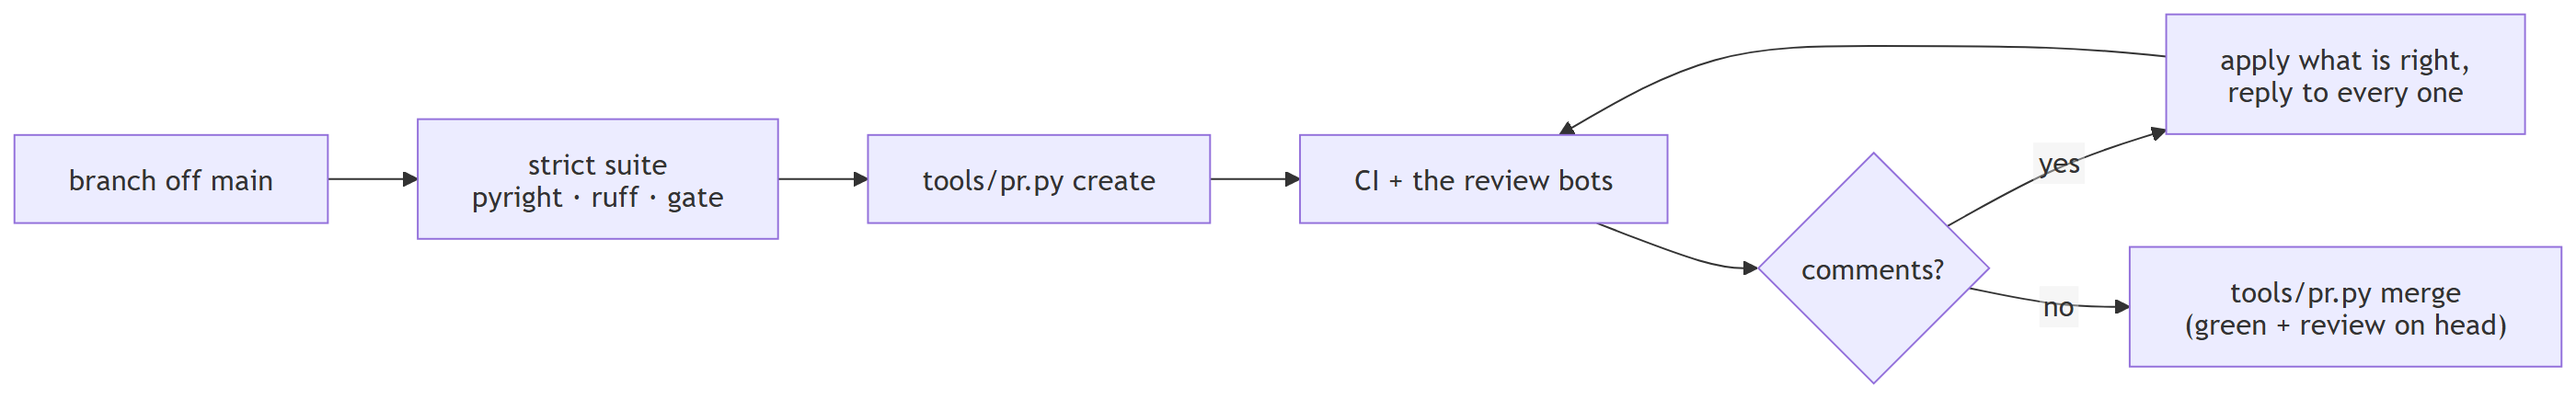
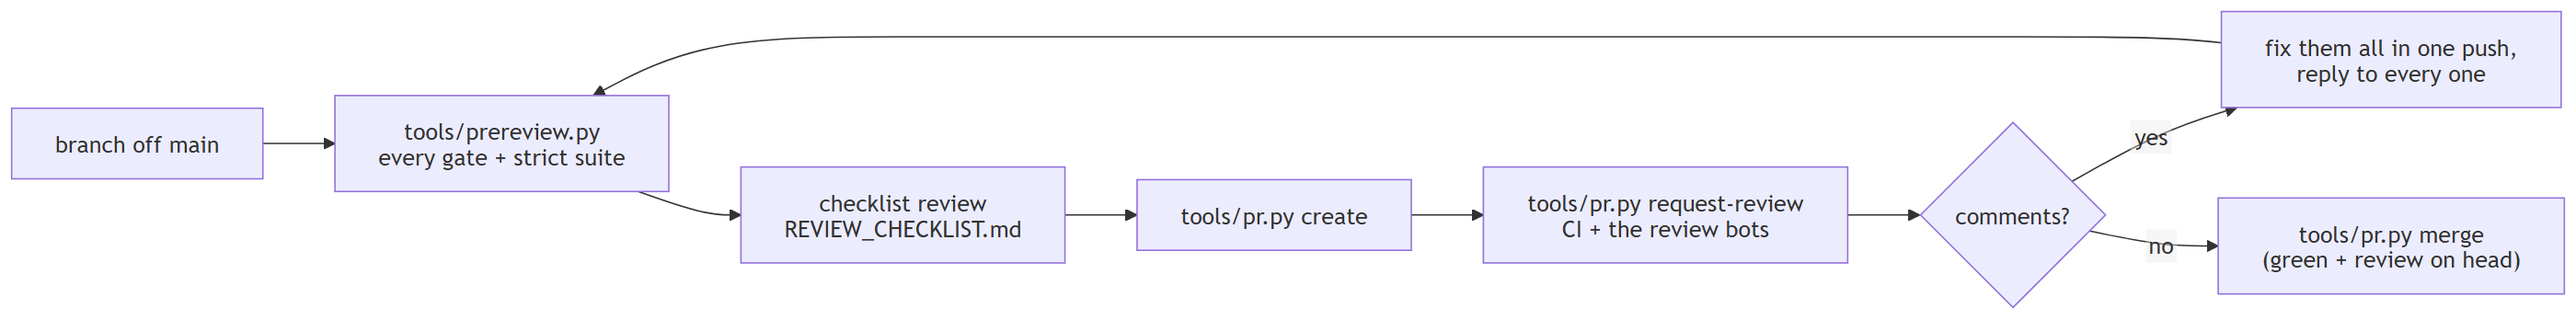
A local review gate and checklist before the automated review

diff --git a/tools/prereview.py b/tools/prereview.py
@@ -1,0 +1,197 @@
+"""Every check a pull request must pass, run locally in one command before the review is requested
+(CONTRIBUTING.md, "The pull request").
+
+    python tools/prereview.py                  # every gate, against origin/main
+    python tools/prereview.py --base main      # a different base for the changed-lines gates
+    python tools/prereview.py --fast           # skip the test suite (the gates only)
+
+It runs the gates CI runs (formatting, lint, types, readability, the generated diagrams and data
+dictionary) and the strict test suite on this checkout's own source (`PYTHONPATH=src`, so an
+editable install of another checkout cannot stand in for it), plus checks CI does not run, each one a kind of finding reviews kept raising
+(`docs/reference/REVIEW_CHECKLIST.md`):
+
+- **changelog**: a change under `src/` adds an entry, and there is exactly one `## Unreleased`.
+- **rendered diagrams**: a changed `docs/figures/diagrams/*.mmd` has its `.png` and `.svg` changed too.
+- **cited paths**: every repository path a changed Markdown file cites exists.
+- **vacuous tests**: no `or True` / `assert True` in `tests/`.
+- **integer fields**: every `int` field of a model in `models/config.py` or `models/inputs.py`
+  carries the `Integer()` rule.
+
+Exit status 0 only when everything passes. The review checklist in
+`docs/reference/REVIEW_CHECKLIST.md` covers what no tool can check.
+"""
+
+from __future__ import annotations
+
+import argparse
+import ast
+import os
+import re
+import subprocess
+import sys
+import time
+from dataclasses import dataclass
+
+ROOT = os.path.dirname(os.path.dirname(os.path.abspath(__file__)))
+
+
+@dataclass(frozen=True)
+class Gate:
+    name: str
+    cmd: list[str]
+    slow: bool = False
+
+
+def gates(base: str) -> list[Gate]:
+    py = sys.executable
+    return [
+        Gate("format", [py, "-m", "ruff", "format", "--check", "src/fdia_graph", "tests", "tools"]),
+        Gate("lint", [py, "-m", "ruff", "check", "src", "tests", "tools"]),
+        Gate("types", [py, "-m", "pyright", "src/fdia_graph"]),
+        Gate("readability", [py, "tools/readability.py", "--report", "--check", "--base", base]),
+        Gate("class diagrams", [py, "tools/class_diagrams.py", "--check"]),
+        Gate("data dictionary", [py, "tools/models_doc.py", "--check"]),
+        Gate(
+            "tests (strict)",
+            [py, "-m", "pytest", "-q", "-x", "-W", "error::DeprecationWarning:fdia_graph", "tests"],
+            slow=True,
+        ),
+    ]
+
+
+def run(gate: Gate) -> tuple[bool, str, float]:
+    env = {**os.environ, "PYTHONPATH": os.path.join(ROOT, "src"), "FDIA_FROZEN_STRICT": "1"}
+    t0 = time.time()
+    p = subprocess.run(
+        gate.cmd, cwd=ROOT, env=env, capture_output=True, text=True, encoding="utf-8", errors="replace"
+    )
+    return p.returncode == 0, (p.stdout + p.stderr).strip(), time.time() - t0
+
+
+def changed(base: str) -> list[str]:
+    out = subprocess.run(
+        ["git", "diff", "--name-only", f"{base}...HEAD"], cwd=ROOT, capture_output=True, text=True, check=True
+    ).stdout
+    staged = subprocess.run(
+        ["git", "diff", "--name-only", "HEAD"], cwd=ROOT, capture_output=True, text=True
+    ).stdout
+    return sorted(set(out.split()) | set(staged.split()))
+
+
+def _read(rel: str) -> str:
+    return open(os.path.join(ROOT, rel), encoding="utf-8").read()
+
+
+def _changelog(files: list[str]) -> tuple[bool, str]:
+    heads = len(re.findall(r"^## Unreleased", _read("CHANGELOG.md"), re.M))
+    if heads > 1:
+        return False, f"CHANGELOG.md has {heads} '## Unreleased' sections"
+    src = [f for f in files if f.startswith("src/")]
+    if src and "CHANGELOG.md" not in files:
+        return False, f"{len(src)} file(s) under src/ changed but CHANGELOG.md did not"
+    return True, ""
+
+
+_CITED = re.compile(
+    r"`((?:src|docs|tools|tests|examples|scripts)/[\w./-]+\.(?:py|md|json|png|svg|npz|csv|mmd|yml))`"
+)
+
+
+def _cited_paths(files: list[str]) -> tuple[bool, str]:
+    missing = [
+        f"{f}: {path}"
+        for f in files
+        if f.endswith(".md") and os.path.exists(os.path.join(ROOT, f))
+        for path in _CITED.findall(_read(f))
+        if not os.path.exists(os.path.join(ROOT, path))
+    ]
+    return not missing, "missing: " + "; ".join(missing[:10])
+
+
+def _vacuous_tests() -> tuple[bool, str]:
+    hits = [
+        f"tests/{name}:{i}"
+        for name in sorted(os.listdir(os.path.join(ROOT, "tests")))
+        if name.endswith(".py")
+        for i, line in enumerate(_read(f"tests/{name}").splitlines(), 1)
+        if re.search(r"\bor True\b|\bassert True\b", line)
+    ]
+    return not hits, "vacuous assertions: " + ", ".join(hits)
+
+
+def _integer_fields() -> tuple[bool, str]:
+    """Every `int` field of a model in models/config.py or models/inputs.py carries `Integer()`,
+    directly or through a module-level alias (`Count = Annotated[int, Integer(), AtLeast(1)]`)."""
+    bare = []
+    for rel in ("src/fdia_graph/models/config.py", "src/fdia_graph/models/inputs.py"):
+        if not os.path.exists(os.path.join(ROOT, rel)):
+            continue
+        tree = ast.parse(_read(rel))
+        aliases = {
+            t.id: ast.unparse(node.value)
+            for node in tree.body
+            if isinstance(node, ast.Assign)
+            for t in node.targets
+            if isinstance(t, ast.Name)
+        }
+        for node in ast.walk(tree):
+            if isinstance(node, ast.AnnAssign) and isinstance(node.target, ast.Name):
+                ann = ast.unparse(node.annotation)
+                ann = aliases.get(ann, ann)  # a field typed by an alias is checked as the alias
+                # a scalar int setting, bare or in Optional/Annotated; a collection of ints is not one
+                if re.match(r"(Annotated\[)?(Optional\[)?int\b", ann) and "Integer()" not in ann:
+                    bare.append(f"{rel}:{node.lineno} {node.target.id}: {ann}")
+    return not bare, "int fields without Integer(): " + "; ".join(bare)
+
+
+def repo_checks(files: list[str]) -> list[tuple[str, bool, str]]:
+    """The checks CI does not run."""
+    out = []
+    ok, detail = _changelog(files)
+    out.append(("changelog", ok, detail))
+    for name, check in (
+        ("cited paths", lambda: _cited_paths(files)),
+        ("vacuous tests", _vacuous_tests),
+        ("integer fields", _integer_fields),
+    ):
+        ok, detail = check()
+        out.append((name, ok, detail))
+    stale = [
+        f
+        for f in files
+        if f.startswith("docs/figures/diagrams/")
+        and f.endswith(".mmd")
+        and not {f[:-4] + ".png", f[:-4] + ".svg"} <= set(files)
+    ]
+    out.append(("rendered diagrams", not stale, "" if not stale else "re-render: " + ", ".join(stale)))
+    return out
+
+
+def main() -> int:
+    ap = argparse.ArgumentParser()
+    ap.add_argument("--base", default="origin/main")
+    ap.add_argument("--fast", action="store_true", help="skip the test suite")
+    a = ap.parse_args()
+    results: list[tuple[str, bool, str]] = []
+    for gate in gates(a.base):
+        if gate.slow and a.fast:
+            continue
+        ok, out, secs = run(gate)
+        print(f"{'PASS' if ok else 'FAIL'}  {gate.name:16s} {secs:6.1f}s")
+        results.append((gate.name, ok, out))
+    for name, ok, detail in repo_checks(changed(a.base)):
+        print(f"{'PASS' if ok else 'FAIL'}  {name:16s}")
+        results.append((name, ok, detail))
+    failed = [(n, out) for n, ok, out in results if not ok]
+    for name, out in failed:
+        print(f"\n---- {name} ----\n" + "\n".join(out.splitlines()[-25:]))
+    print(
+        "\nall checks pass: now the checklist review, then request the review"
+        if not failed
+        else f"\n{len(failed)} check(s) failed"
+    )
+    return 1 if failed else 0
+
+
+if __name__ == "__main__":
+    sys.exit(main())

diff --git a/tools/pr.py b/tools/pr.py
@@ -6,6 +6,7 @@
     python tools/pr.py reply <num> <comment-id> "<text>"     # answer one review comment
     python tools/pr.py wait <num> [minutes]                  # block until CI has finished and every required bot reviewed
     python tools/pr.py merge <num>                           # squash-merge on green, delete the branch
+    python tools/pr.py request-review <num>                  # ask the automated reviewer, once the pre-review is clean
 
 The token comes from the Git Credential Manager (`git credential fill`), the same one `git push`
 uses, so nothing is stored in the repo. `merge` refuses while a check is failing or still running
@@ -239,6 +240,17 @@ def merge(num: int) -> None:
         print("deleted branch", pr["head"]["ref"])
 
 
+def request_review(num: int) -> None:
+    """Ask the automated reviewer for one review of the current head. Run `tools/prereview.py` and the
+    checklist in docs/reference/REVIEW_CHECKLIST.md first: each request is a billed review."""
+    api(
+        "POST",
+        f"/pulls/{num}/requested_reviewers",
+        json={"reviewers": ["copilot-pull-request-reviewer[bot]"]},
+    )
+    print(f"review requested on #{num}")
+
+
 def main(argv: list[str]) -> None:
     if hasattr(sys.stdout, "reconfigure"):
         sys.stdout.reconfigure(
@@ -259,6 +271,8 @@ def main(argv: list[str]) -> None:
         wait(int(args[0]), float(args[1]) if len(args) > 1 else 25)
     elif cmd == "merge":
         merge(int(args[0]))
+    elif cmd == "request-review":
+        request_review(int(args[0]))
     else:
         raise SystemExit(__doc__)
 

diff --git a/docs/reference/REVIEW_CHECKLIST.md b/docs/reference/REVIEW_CHECKLIST.md
@@ -1,0 +1,94 @@
+# Review checklist
+
+Run this before a pull request is sent for review. It is built from the 313 findings of the
+automated reviewer on 80 pull requests (#52 to #148), grouped by kind and ordered by how often each
+kind came up. `python tools/prereview.py` runs every mechanical check. This page covers what only a
+reader can check.
+
+A third of all findings were one failure mode: code changed, but a doc, a docstring, a changelog line,
+a number or a generated file describing it did not. Most of those findings pointed at a file the pull
+request never touched. So the review starts from the diff and searches outward through the whole
+repository, not just the changed lines.
+
+## What came up, and how often
+
+| kind | findings | pull requests |
+|---|---:|---:|
+| docs, docstrings or changelog out of step with the code | 77 | 38 |
+| logic and edge cases (degenerate inputs, exhausted retries, stale state, a change only partly delivered) | 44 | 20 |
+| input validation (integers, NaN and inf, shapes, unknown options, a raw TypeError, checking after a download) | 37 | 14 |
+| tooling and CI (workflow inputs in shell, pagination, exit codes) | 33 | 12 |
+| tests missing, vacuous or testing the wrong thing | 23 | 18 |
+| cache, resume and reproducibility keys | 16 | 7 |
+| numbers in docs that do not match the results files | 15 | 8 |
+| performance and memory | 13 | 10 |
+| generated files stale (diagram images, data dictionary, frozen fixture) | 12 | 9 |
+| backward compatibility (reordered parameters, removed or renamed names) | 11 | 11 |
+| readability contract | 10 | 6 |
+| optional dependencies and extras | 7 | 5 |
+| grammar and markdown | 6 | 6 |
+| loopholes in the readability gate | 5 | 3 |
+| type hints | 4 | 4 |
+
+## The checklist
+
+1. **Sweep for drift.** For every changed name, setting, default, path or behaviour, search the rest
+   of the repository for the old wording and fix every hit. That covers docstrings in the same
+   module, `docs/`, `README.md`, `CONTRIBUTING.md`, the tool docstrings and older bullets in the same
+   `## Unreleased` section. For example: `rg -n "<old name>|<old value>|<old path>" docs src tools
+   tests README.md CHANGELOG.md CONTRIBUTING.md`.
+2. **Every claim holds end to end.** When the change says "no longer needs X", "unchanged", "exact"
+   or "bounded memory", trace every call path (fit, score, estimate and their helpers) and confirm
+   it. "Unchanged numbers" means the strict frozen suite passes.
+3. **Degenerate inputs.** Check 0, 1, a fraction that rounds to 0, an empty candidate list, every
+   retry failing, a validation set with no attacked (or no benign) record, and a refit after tuning.
+   A retry loop must never emit the last candidate it rejected.
+4. **Every new input is declared on a model.**
+   - An integer field carries `Integer()`; `AtLeast` alone accepts 1.5.
+   - A float that must be finite carries `Finite()`; NaN and inf pass a `> 0` check.
+   - An option is a `OneOf(<Choice>)`.
+   - Arrays have their shape stated.
+   - Paired lists have a length invariant.
+   - Nothing is checked in a function body, and everything is checked before any download or file
+     read.
+5. **Tests prove the claim.**
+   - No `or True` and no assertion that holds by construction.
+   - Each new fast path and each feature branch gets its own test.
+   - A test's name matches what it loads.
+   - A test that reads a published data file runs only under `FDIA_SLOW=1` (the slow workflow),
+     never in the default suite.
+6. **Numbers in docs are recomputed** from the committed results file: the right metric (macro-F1
+   versus node-F1), the right denominator, the right rounding, and no placeholders left.
+7. **Generated files are regenerated and committed together.** That means the diagram `.mmd`, `.svg`
+   and `.png`, the data dictionary, and the frozen fixture after a change to generation.
+8. **Backward compatibility.**
+   - A new parameter goes last or is keyword-only.
+   - A removed or renamed public name keeps a deprecated alias for one minor version.
+   - Dataclass field order does not change.
+   - New public names are exported.
+9. **Tooling and CI.**
+   - Workflow inputs reach a shell through `env:`, never through `${{ }}` inside `run:`.
+   - List endpoints are paginated.
+   - HTTP errors other than 404 surface.
+   - A failure exits non-zero.
+   - Files and `np.load` are opened in context managers.
+10. **Caches and resumes are keyed by every input** (frames, seed, K, the source pool, the release).
+    The release is pinned explicitly, and a corrupt cache recomputes.
+11. **Memory and hot loops.**
+    - Nothing of size T x N is materialized in float64 on a timeline path.
+    - Nothing is allocated per Newton iteration.
+    - Estimate the size at IEEE-300 over 72,000 frames; `python tools/bench.py --check` gates the
+      timings.
+12. **The readability contract.** Channel indices come from `NODE`/`EDGE`/`BRANCH`, file paths and
+    attributes from `schema`, each formula exists once, and there are no positional tuples.
+13. **Extras.** A new import of scipy, torch or pandapower is declared in the matching extra, guarded
+    with an install message, and kept off the `import fdia_graph` path.
+14. **Prose.** Read every added paragraph once for grammar, empty code fences and the docs' tone.
+
+## The order
+
+1. `python tools/prereview.py` until it passes.
+2. Work through the checklist above against the diff, searching outward from every change, and fix
+   what it finds.
+3. Only then request the automated review (`python tools/pr.py request-review <num>`). Batch the
+   fixes to its findings into one push, and run steps 1 and 2 again before requesting it again.

diff --git a/CONTRIBUTING.md b/CONTRIBUTING.md
@@ -47,10 +47,12 @@ checks a docs change locally.
 
 ## The pull request
 
-![the pull request flow: branch, strict suite, create, CI and the review bots, answer every comment, merge on green](docs/figures/diagrams/contributing_pr_flow.png)
+![the pull request flow: branch, the pre-review gate and the checklist review, create, request the review, fix every finding in one push and go through the gate again, merge on green](docs/figures/diagrams/contributing_pr_flow.png)
 
 ```bash
+python tools/prereview.py                                      # every gate, locally, on this checkout's source
 python tools/pr.py create my-branch "One-line title" body.md   # body: what, why, what you checked
+python tools/pr.py request-review 80                           # only after the gate and the checklist are clean
 python tools/pr.py wait 80                                     # CI plus every required review bot
 python tools/pr.py comments 80
 python tools/pr.py reply 80 <comment-id> "what changed"
@@ -62,12 +64,17 @@ Green means: every job of the smoke workflow (`tests`, `tests (3.9)`, `tests (wi
 started yet counts as not green), every other listed check has finished without failure, and every required review bot has reviewed
 that exact head.
 
-Three reviewers read a pull request, in this order:
+The automated review is billed per review, so a pull request reaches it only once it is clean, and
+the fixes to its findings are batched into one push. The order:
 
-1. `/code-review ultra <number>` in Claude Code, before the bots: a multi-agent review of the whole
-   branch with the repository as context. Fold what it finds into the branch first.
-2. Copilot, on every push, always required on the head.
-3. CodeRabbit (`.coderabbit.yaml` carries the repository's review instructions) and Gemini Code Assist, both
+1. `python tools/prereview.py` until it passes: the CI gates, the strict suite, and the checks CI
+   does not run (changelog, cited paths, vacuous tests, integer fields, rendered diagrams).
+2. The review checklist, `docs/reference/REVIEW_CHECKLIST.md`, against the diff, searching outward
+   from every change (a `/code-review` in Claude Code with the checklist does this). Fold what it
+   finds into the branch.
+3. Copilot, requested with `tools/pr.py request-review`, required on the head at merge. Answer its
+   findings, fix them all in one push, repeat steps 1 and 2, and only then request it again.
+4. CodeRabbit (`.coderabbit.yaml` carries the repository's review instructions) and Gemini Code Assist, both
    GitHub apps installed on the repository; `tools/pr.py` requires a bot's review on the head as
    soon as that bot has reviewed the pull request once, so a bot that is not installed never
    blocks a merge and an installed one is never skipped.

diff --git a/docs/ROADMAP.md b/docs/ROADMAP.md
@@ -43,6 +43,7 @@ analysis packages `fdia_graph.se`, `fdia_graph.localization`, `fdia_graph.trust`
 
 | | |
 |---|---|
+| `python tools/prereview.py` | every CI gate, the strict suite and the checks CI does not run, on this checkout's source; run before a review is requested (`docs/reference/REVIEW_CHECKLIST.md`) |
 | `pytest tests` | builds a tiny IEEE-14 timeline in a throwaway cache (about a minute) and checks the documented contracts |
 | `FDIA_FROZEN_STRICT=1 pytest tests` | bit-identical comparison against `tests/frozen/`; run before every push |
 | `FDIA_SLOW=1 pytest tests` | adds a sanity test on the published IEEE-118 file |
